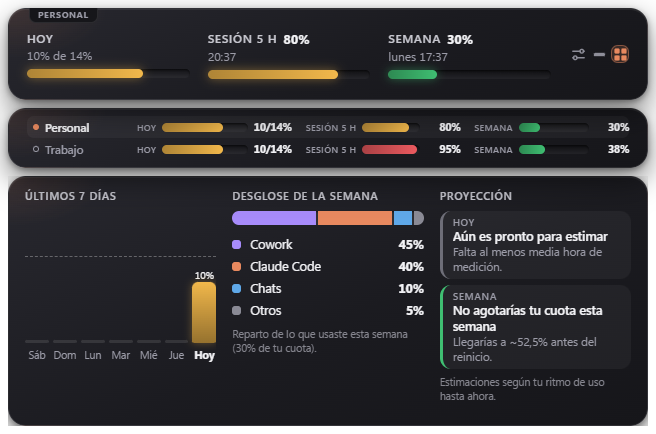
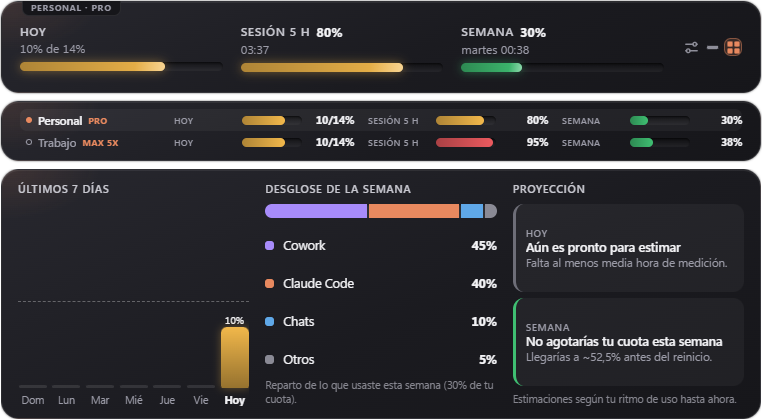
Cupo 0.2.2: vista completa mas ancha, capturas y README actualizados

diff --git a/src/main.js b/src/main.js
@@ -34,7 +34,7 @@ const MEDIDAS_DE_VISTA = {
   'normal-vertical': { ancho: 300, alto: 130 },    // las tres barras, una bajo la otra
   'normal-horizontal': { ancho: 540, alto: 92 },   // las tres barras, lado a lado
   compacto: { ancho: 300, alto: 44 },              // una sola línea con la barra de Hoy
-  completo: { ancho: 640, alto: 92 + 8 + 250 },    // las barras arriba y, abajo, el historial, el desglose y la proyección juntos
+  completo: { ancho: 760, alto: 92 + 8 + 250 },    // las barras arriba y, abajo, el historial, el desglose y la proyección juntos
   cuentas: { ancho: 760, alto: 0 },                // todas las cuentas a la vez, una fila por cuenta (el alto depende de cuántas haya)
 };
 

diff --git a/README.md b/README.md
@@ -4,7 +4,7 @@
 
 [English version](README.en.md)
 
-![Cupo en su vista normal](docs/captura-normal.png)
+![Cupo con dos cuentas a la vez](docs/captura-normal.png)
 
 > Proyecto **no oficial**. No tiene relación con Anthropic. "Claude" es una marca de Anthropic.
 
@@ -21,9 +21,11 @@
 - **Español e inglés** (o el idioma de Windows).
 - Queda en la bandeja del sistema, junto al reloj, y puede abrirse al iniciar Windows.
 
-| Varias cuentas | Vista completa |
+| Todas las cuentas a la vez (con su plan) y el panel de cuentas | Vista "Cuentas" |
 | --- | --- |
-| ![Panel de cuentas](docs/captura-cuentas.png) | ![Vista completa con dos cuentas](docs/captura-completo.png) |
+| ![Panel de cuentas y lista apilada](docs/captura-cuentas.png) | ![Vista Cuentas](docs/captura-lista.png) |
+
+![Vista completa con dos cuentas](docs/captura-completo.png)
 
 ## Instalar
 

diff --git a/README.en.md b/README.en.md
@@ -4,7 +4,7 @@
 
 [Versión en español](README.md)
 
-![Cupo, normal view](docs/captura-normal.png)
+![Cupo with two accounts at once](docs/captura-normal.png)
 
 > **Unofficial** project. Not affiliated with Anthropic. "Claude" is a trademark of Anthropic.
 
@@ -21,9 +21,11 @@
 - **Spanish and English** (or follow Windows).
 - Lives in the system tray next to the clock, and can start with Windows.
 
-| Several accounts | Full view |
+| All accounts at once (with their plan) and the accounts panel | "Accounts" view |
 | --- | --- |
-| ![Accounts panel](docs/captura-cuentas.png) | ![Full view with two accounts](docs/captura-completo.png) |
+| ![Accounts panel and stacked list](docs/captura-cuentas.png) | ![Accounts view](docs/captura-lista.png) |
+
+![Full view with two accounts](docs/captura-completo.png)
 
 ## Install
 
